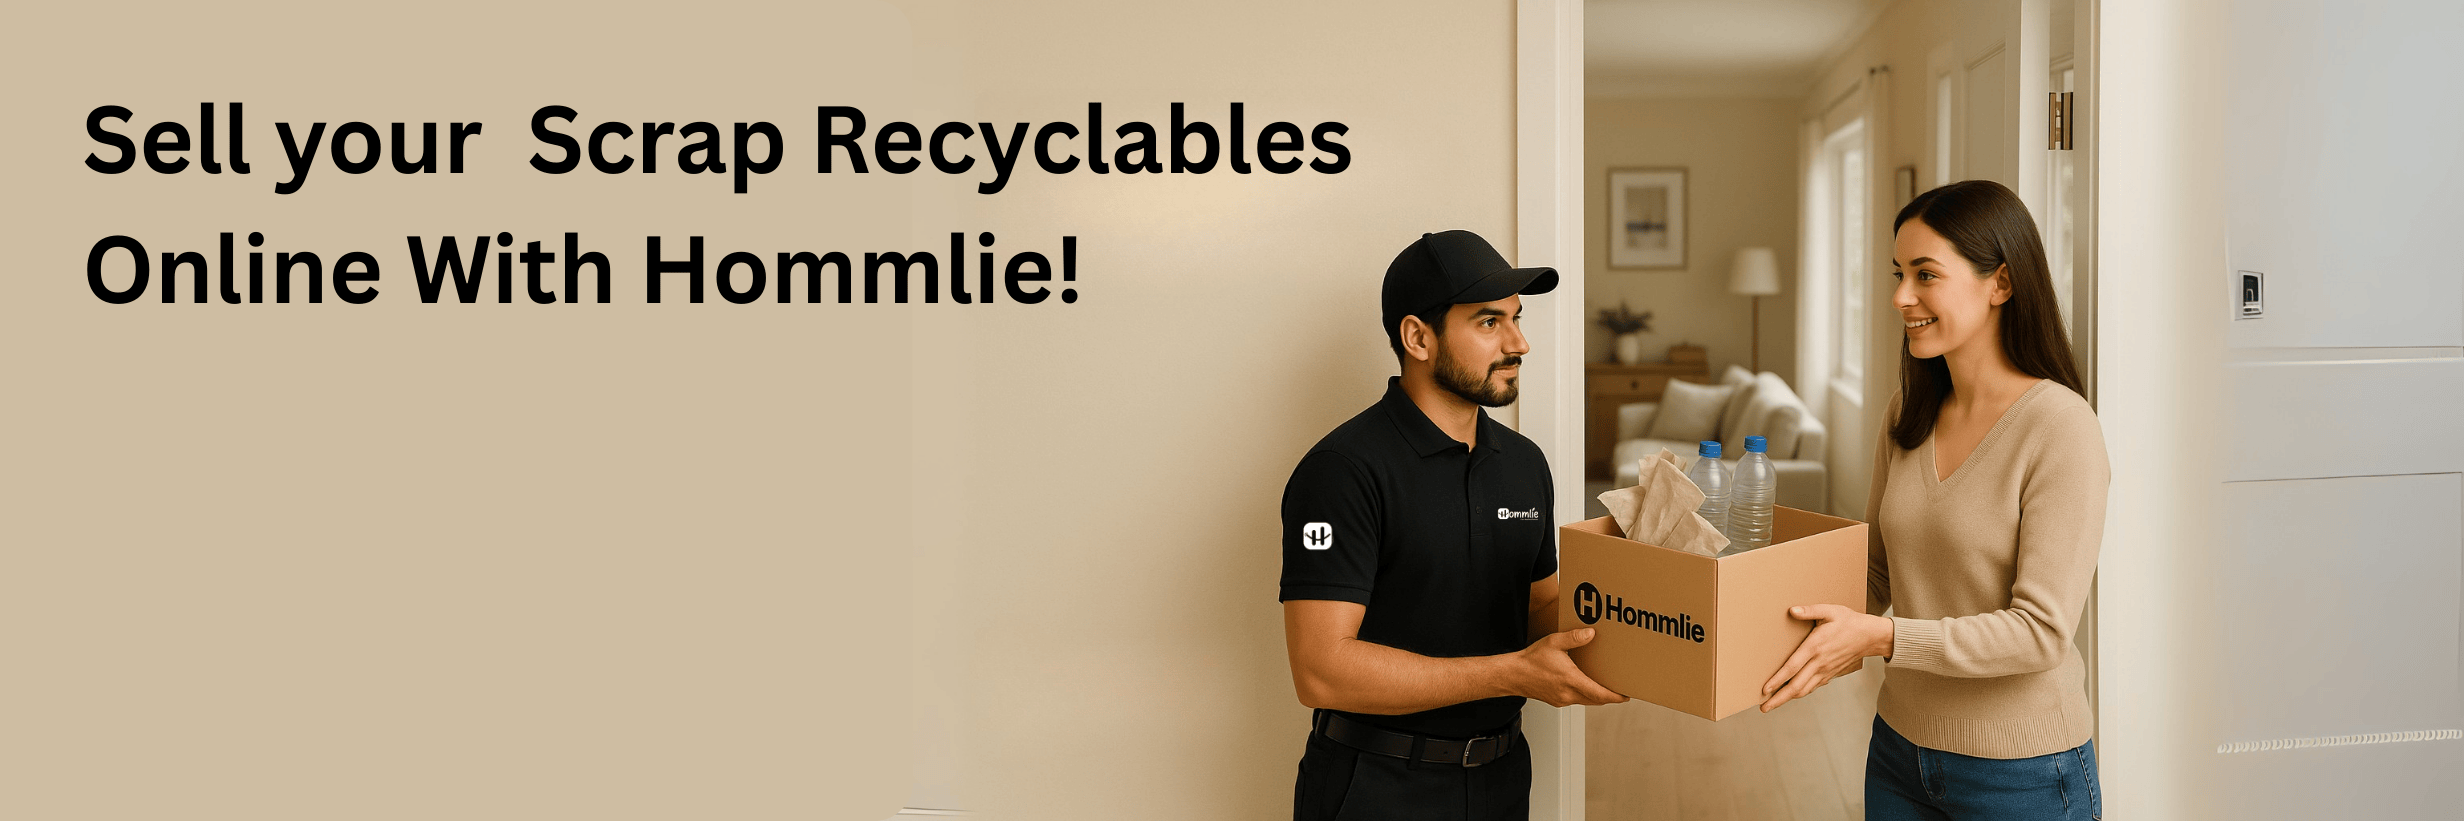
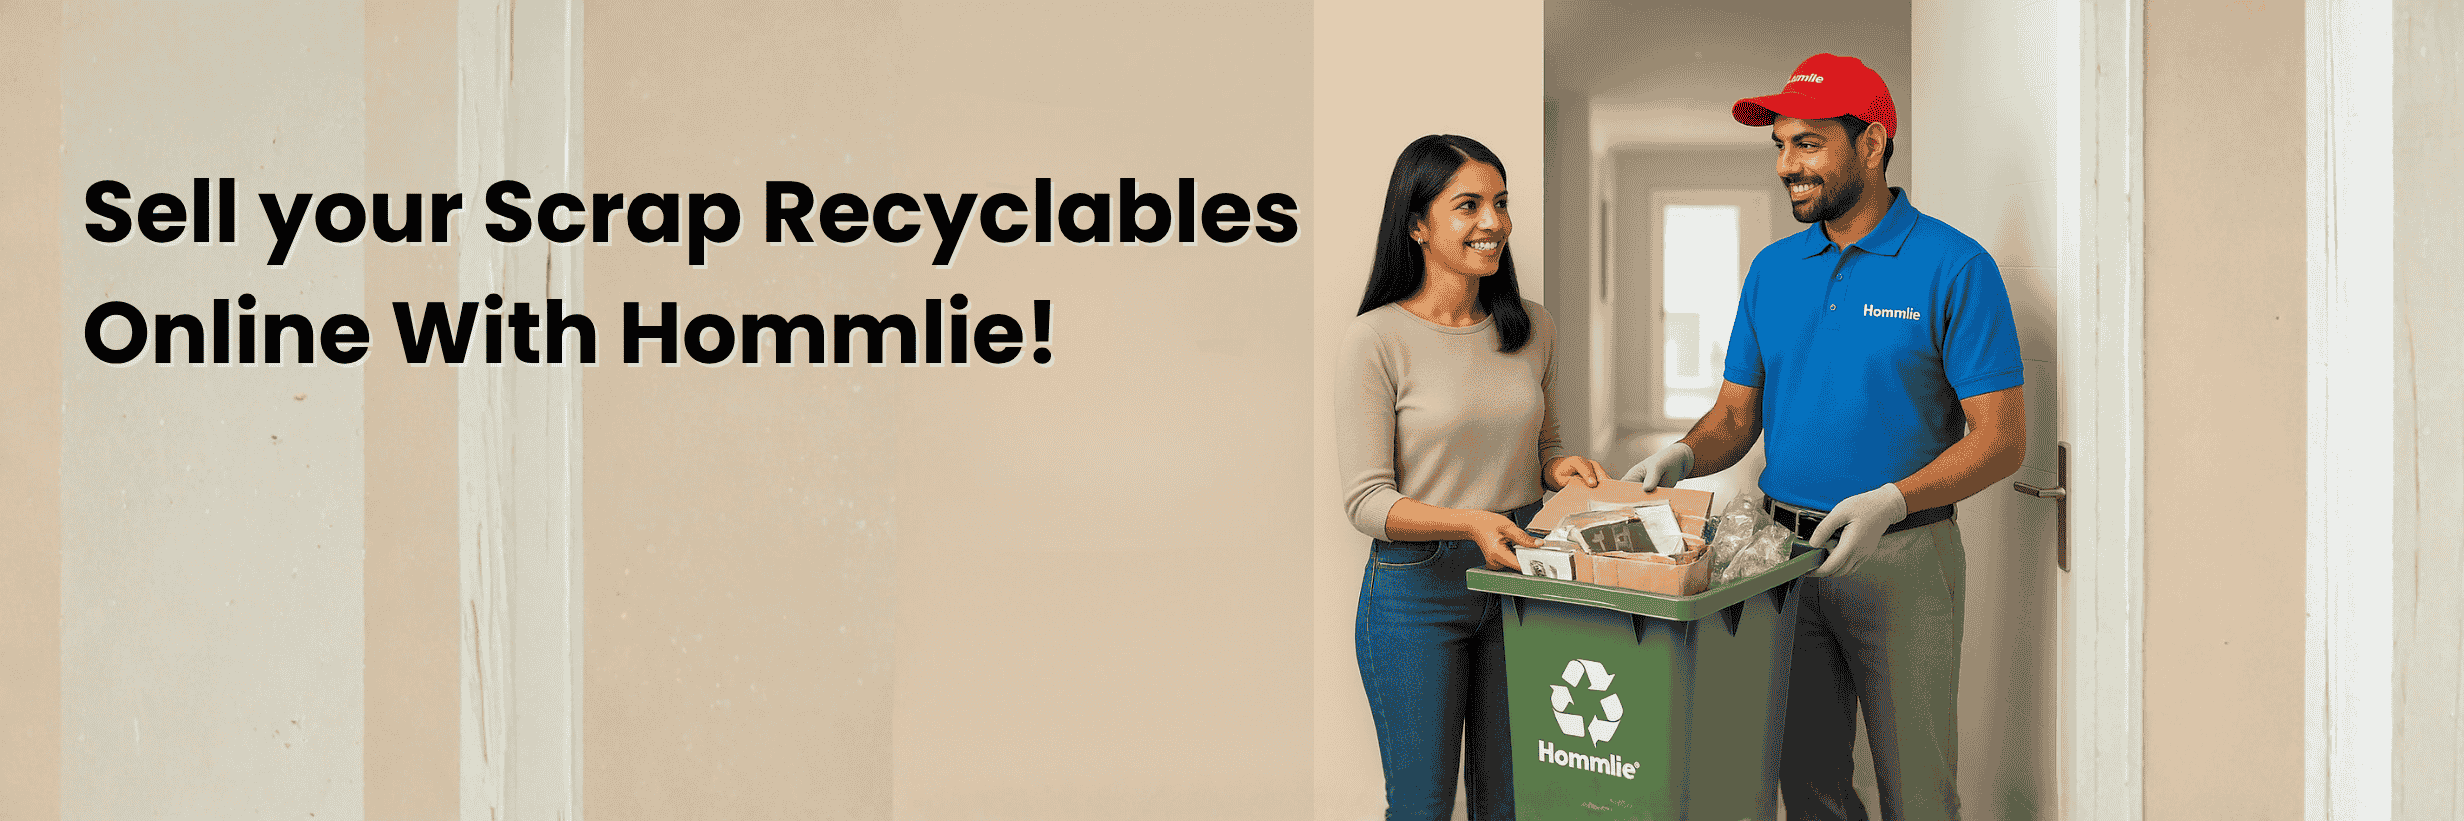
updated

diff --git a/client-connected/src/pages/CleaningProductPage/index.jsx b/client-connected/src/pages/CleaningProductPage/index.jsx
@@ -456,7 +456,7 @@ const CleaningProductPage = () => {
               {innerSubCategoryData?.category?.category_name}
             </a>
             <span>/</span>
-            <span>{innerSubCategoryData?.subcategory_name}</span>
+            {/* <span>{innerSubCategoryData?.subcategory_name}</span> */}
           </nav>
 
           <div className="grid grid-cols-1 lg:grid-cols-4 gap-4 gap-y-8">
@@ -503,7 +503,7 @@ const CleaningProductPage = () => {
                           <img
                             src={product.productimages[0]?.image_url}
                             alt={product.product_name}
-                            className="w-20 h-20 rounded-md object-cover"
+                            className="w-26 h-26 rounded-md object-cover"
                           />
                         ) : (
                           <img

diff --git a/client-connected/src/components/ServiceSection/index.jsx b/client-connected/src/components/ServiceSection/index.jsx
@@ -494,7 +494,7 @@ const ServiceSection = ({ categories }) => {
 
   return (
     <>
-      <section className="max-w-7xl mx-auto px-4 sm:px-6 lg:px-8 py-10 font-[Helvetica] bg-white rounded-xl shadow-md">
+      <section className="max-w-7xl mx-auto px-4 sm:px-6 lg:px-8 py-10 font-[Helvetica] bg-white">
         {/* Request a Callback Button (visible on all devices) */}
         <div className="block sm:hidden mb-5 -mt-20 sm:-mt-0 flex justify-center">
           <button

diff --git a/client-connected/src/pages/BannerImage/index.jsx b/client-connected/src/pages/BannerImage/index.jsx
@@ -8,7 +8,7 @@ const BannerImage = () => {
     <div className="hidden sm:flex w-full justify-center mb-3 mt-2" >
       <div className="relative rounded-lg overflow-hidden">
         <img
-          src="/images/baner.webp"
+          src="/images/baner.png"
           alt="Banner Desktop"
           className="w-[1250px] h-auto object-cover"
         />

diff --git a/client-connected/src/pages/Scrapbanner/index.jsx b/client-connected/src/pages/Scrapbanner/index.jsx
@@ -8,7 +8,7 @@ const BannerImage = () => {
     <div className="hidden sm:flex w-full justify-center">
       <div className="relative rounded-lg overflow-hidden">
         <img
-          src="/images/scrap.webp"
+          src="/images/scrap.png"
           alt="Banner Desktop"
           className="w-[1250px] h-auto object-cover"
         />
